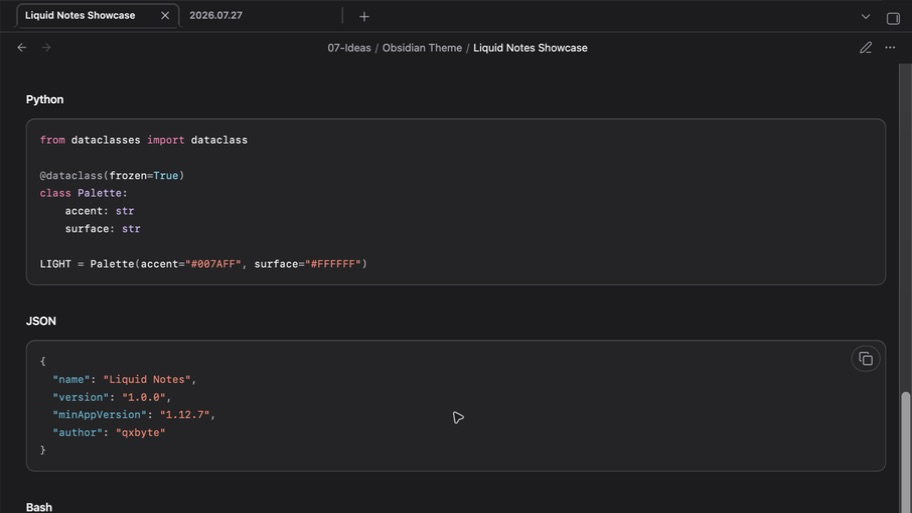
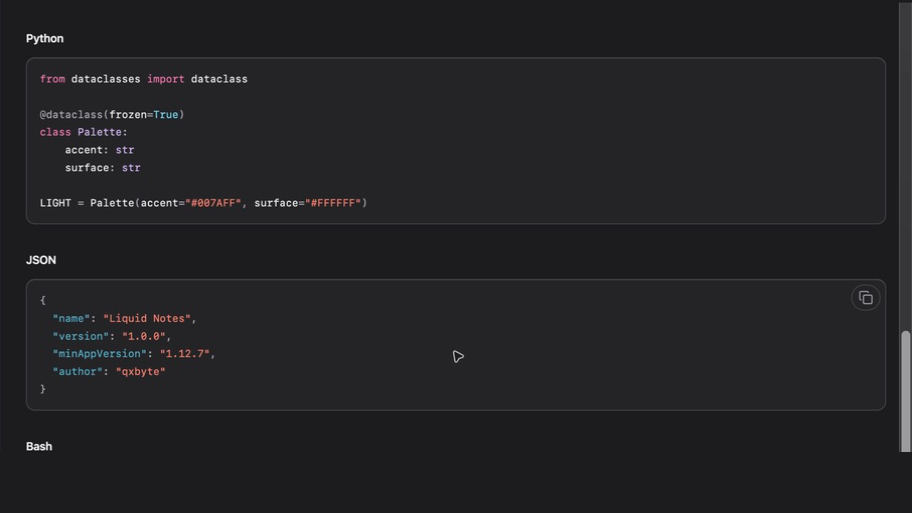
fix: harden theme accessibility and release safety

diff --git a/tests/render-fixture.html b/tests/render-fixture.html
@@ -17,6 +17,7 @@
       </div>
       <section id="light-canvas" class="workspace-leaf-content">
         <div class="markdown-source-view mod-cm6">
+          <div id="live-preview-heading" class="cm-line HyperMD-header HyperMD-header-1">Live Preview heading</div>
           <div class="cm-line cm-hmd-codeblock">
             <span class="cm-keyword">struct</span>
             <span class="cm-type">SettingsView</span>
@@ -37,13 +38,13 @@
           <pre><code><span class="token keyword">struct</span> <span class="token class-name">SettingsView</span> <span class="token function">body</span> <span class="token string">"Notes"</span> <span class="token number">26</span> <span class="token property">accentColor</span> <span class="token comment">// comment</span></code></pre>
         </article>
         <section class="bases-view"><div class="bases-table-container">Bases</div></section>
-        <section class="canvas-wrapper"><div class="canvas-node"><div class="canvas-node-container">Canvas</div></div><div class="canvas-controls">Controls</div></section>
+        <section class="canvas-wrapper"><div class="canvas-node"><div class="canvas-node-container">Canvas</div></div><div class="canvas-controls">Controls</div><div class="canvas-card-menu">Card menu</div></section>
         <section class="graph-view"><div class="graph-controls">Graph</div></section>
         <section class="pdf-container"><div class="pdf-toolbar">PDF</div></section>
         <section class="vertical-tab-header"><div class="vertical-tab-nav-item is-active">Appearance</div></section>
         <section class="setting-item">
           <div class="setting-item-info"><div class="setting-item-name">Theme</div></div>
-          <div class="setting-item-control"><input type="text" value="Liquid Notes"><button id="mobile-action">Apply</button></div>
+          <div class="setting-item-control"><input type="text" value="Liquid Notes"><button id="mobile-action">Apply</button><button id="light-cta" class="mod-cta">Install</button></div>
         </section>
       </section>
       <aside id="light-sidebar" class="workspace-split mod-left-split">
@@ -88,7 +89,7 @@
         <section class="graph-view"><div class="graph-controls">Graph</div></section>
         <section class="pdf-container"><div class="pdf-toolbar">PDF</div></section>
         <section class="vertical-tab-header"><div class="vertical-tab-nav-item is-active">Appearance</div></section>
-        <section class="setting-item"><div class="setting-item-control"><input type="text" value="Liquid Notes"><button>Apply</button></div></section>
+        <section class="setting-item"><div class="setting-item-control"><input type="text" value="Liquid Notes"><button>Apply</button><button id="dark-cta" class="mod-cta">Install</button></div></section>
       </section>
       <aside id="dark-sidebar" class="workspace-split mod-left-split">
         <div class="nav-file-title is-active">File</div>
@@ -102,6 +103,8 @@
     <output id="test-results">pending</output>
     <script>
       const failures = [];
+      const focusTarget = document.querySelector("#light-toolbar-button");
+      focusTarget.focus();
 
       const style = (selector) => getComputedStyle(document.querySelector(selector));
       const custom = (selector, property) => style(selector).getPropertyValue(property).trim().toLowerCase();
@@ -134,6 +137,11 @@
         if (!Number.isFinite(actual) || actual < minimum) failures.push(`${selector} ${property}: expected at least ${minimum}px, got ${style(selector)[property]}`);
       };
 
+      const expectMaxPixels = (selector, property, maximum) => {
+        const actual = Number.parseFloat(style(selector)[property]);
+        if (!Number.isFinite(actual) || actual > maximum) failures.push(`${selector} ${property}: expected at most ${maximum}px, got ${style(selector)[property]}`);
+      };
+
       const expectSameColor = (leftSelector, rightSelector) => {
         const left = style(leftSelector).color;
         const right = style(rightSelector).color;
@@ -155,6 +163,28 @@
         if (!actual.includes(expected.toLowerCase())) failures.push(`${selector} ${property}: expected to include ${expected}, got ${actual}`);
       };
 
+      const expectStyle = (selector, property, expected) => {
+        const actual = style(selector)[property].toLowerCase();
+        if (actual !== expected.toLowerCase()) failures.push(`${selector} ${property}: expected ${expected}, got ${actual}`);
+      };
+
+      const relativeLuminance = (cssColor) => {
+        const channels = cssColor.match(/[\d.]+/g)?.slice(0, 3).map(Number);
+        if (!channels || channels.length !== 3) return Number.NaN;
+        const linear = channels.map((channel) => {
+          const value = channel / 255;
+          return value <= 0.04045 ? value / 12.92 : ((value + 0.055) / 1.055) ** 2.4;
+        });
+        return 0.2126 * linear[0] + 0.7152 * linear[1] + 0.0722 * linear[2];
+      };
+
+      const expectContrast = (selector, minimum) => {
+        const foreground = relativeLuminance(style(selector).color);
+        const background = relativeLuminance(style(selector).backgroundColor);
+        const ratio = (Math.max(foreground, background) + 0.05) / (Math.min(foreground, background) + 0.05);
+        if (!Number.isFinite(ratio) || ratio < minimum) failures.push(`${selector} contrast: expected at least ${minimum}:1, got ${ratio.toFixed(2)}:1`);
+      };
+
       expectCustom("#light-root", "--interactive-accent", "#007aff");
       expectCustom("#dark-root", "--interactive-accent", "#0a84ff");
       expectCustomIncludes("#light-root", "--font-interface-theme", "-apple-system");
@@ -172,12 +202,17 @@
       expectMinPixels("#light-root .search-input-container input", "borderRadius", 7);
       expectMinPixels("#light-toolbar-button", "width", 28);
       expectMinPixels("#light-toolbar-button", "height", 28);
+      if (!focusTarget.matches(":focus-visible")) failures.push("#light-toolbar-button: expected :focus-visible after keyboard-style autofocus");
+      expectMinPixels("#light-toolbar-button", "outlineWidth", 2);
       expectNotTransparent("#light-root .status-bar");
       expectNotTransparent("#light-root .menu");
       expectNotTransparent("#light-root .modal");
       expectNotTransparent("#light-root .tooltip");
       expectNotTransparent("#light-root .markdown-reading-view");
       expectNotTransparent("#dark-root .markdown-reading-view");
+      expectMaxPixels("#live-preview-heading", "marginTop", 0);
+      expectMaxPixels("#live-preview-heading", "marginBottom", 0);
+      expectMinPixels("#live-preview-heading", "paddingTop", 1);
       expectFontIncludes("#light-root pre code", "SF Mono");
       expectFontIncludes("#dark-root .cm-hmd-codeblock", "SF Mono");
       expectDistinctColors([
@@ -211,10 +246,14 @@
       expectNotTransparent("#light-root .canvas-controls");
       expectNotTransparent("#light-root .graph-controls");
       expectNotTransparent("#light-root .pdf-toolbar");
+      expectStyle("#light-root .canvas-node-container", "backdropFilter", "none");
+      expectStyleIncludes("#light-root .canvas-controls", "backdropFilter", "blur(");
       expectNotTransparent("#light-root .vertical-tab-header");
       expectNotTransparent("#light-root .setting-item-control input");
       expectNotTransparent("#light-root .setting-item-control button");
       expectMinPixels("#light-root .setting-item-control input", "borderTopWidth", 1);
+      expectContrast("#light-cta", 4.5);
+      expectContrast("#dark-cta", 4.5);
 
       if (window.innerWidth <= 800) {
         expectMinPixels("#light-toolbar-button", "height", 44);
@@ -226,7 +265,26 @@
         expectStyleIncludes("#light-toolbar-button", "transitionDuration", "0s");
       }
 
-      document.querySelector("#test-results").textContent = JSON.stringify({ failures });
+      if (matchMedia("(prefers-reduced-transparency: reduce)").matches) {
+        for (const selector of [
+          "#light-sidebar",
+          "#light-root .canvas-controls",
+          "#light-root .canvas-card-menu",
+          "#light-root .graph-controls",
+          "#light-root .pdf-toolbar",
+        ]) {
+          expectStyle(selector, "backdropFilter", "none");
+          expectNotTransparent(selector);
+        }
+      }
+
+      document.querySelector("#test-results").textContent = JSON.stringify({
+        failures,
+        media: {
+          reducedMotion: matchMedia("(prefers-reduced-motion: reduce)").matches,
+          reducedTransparency: matchMedia("(prefers-reduced-transparency: reduce)").matches,
+        },
+      });
     </script>
   </body>
 </html>

diff --git a/theme.css b/theme.css
@@ -31,6 +31,7 @@ body {
 
   --ln-accent: #007aff;
   --ln-accent-hover: #006ee6;
+  --ln-accent-cta: #0062cc;
   --ln-canvas: #ffffff;
   --ln-canvas-alt: #f7f7f9;
   --ln-surface: rgba(255, 255, 255, 0.78);
@@ -111,6 +112,7 @@ body {
 
   --ln-accent: #0a84ff;
   --ln-accent-hover: #409cff;
+  --ln-accent-cta: #0068d9;
   --ln-canvas: #1c1c1e;
   --ln-canvas-alt: #232326;
   --ln-surface: rgba(44, 44, 46, 0.78);
@@ -595,21 +597,30 @@ input[type="search"]:focus {
   text-wrap: balance;
 }
 
-.markdown-rendered h1,
-.HyperMD-header-1 {
+.markdown-rendered h1 {
   margin-block: 1.5em 0.58em;
 }
 
-.markdown-rendered h2,
-.HyperMD-header-2 {
+.HyperMD-header-1 {
+  padding-block: 1.5em 0.58em;
+}
+
+.markdown-rendered h2 {
   margin-block: 1.45em 0.56em;
+}
+
+.HyperMD-header-2 {
+  padding-top: 1.45em;
   padding-bottom: 0.22em;
   border-bottom: 1px solid var(--ln-separator);
 }
 
-.markdown-rendered :is(h3, h4, h5, h6),
-:is(.HyperMD-header-3, .HyperMD-header-4, .HyperMD-header-5, .HyperMD-header-6) {
+.markdown-rendered :is(h3, h4, h5, h6) {
   margin-block: 1.3em 0.5em;
+}
+
+:is(.HyperMD-header-3, .HyperMD-header-4, .HyperMD-header-5, .HyperMD-header-6) {
+  padding-block: 1.3em 0.5em;
 }
 
 .markdown-rendered p,
@@ -986,7 +997,12 @@ a.tag {
 }
 
 .canvas-node-container,
-.canvas-group-label,
+.canvas-group-label {
+  border: 1px solid var(--ln-border);
+  background-color: var(--background-primary-alt);
+  box-shadow: var(--ln-shadow-control);
+}
+
 .canvas-controls,
 .canvas-card-menu,
 .graph-controls {
@@ -1171,8 +1187,12 @@ button.mod-warning {
 button.mod-cta {
   border-color: transparent;
   color: var(--text-on-accent);
-  background-color: var(--ln-accent);
+  background-color: var(--ln-accent-cta);
   box-shadow: 0 1px 2px color-mix(in srgb, var(--ln-accent) 34%, transparent), inset 0 1px rgba(255, 255, 255, 0.22);
+}
+
+.setting-item-control button.mod-cta:hover {
+  background-color: color-mix(in srgb, var(--ln-accent-cta) 90%, #000000);
 }
 
 button.mod-warning {
@@ -1262,8 +1282,10 @@ kbd,
   .modal,
   .tooltip,
   .canvas-controls,
+  .canvas-card-menu,
   .graph-controls,
-  .pdf-toolbar {
+  .pdf-toolbar,
+  .pdf-sidebar-container {
     -webkit-backdrop-filter: saturate(1.2) blur(14px);
     backdrop-filter: saturate(1.2) blur(14px);
   }
@@ -1285,7 +1307,12 @@ kbd,
   .status-bar,
   .menu,
   .modal,
-  .tooltip {
+  .tooltip,
+  .canvas-controls,
+  .canvas-card-menu,
+  .graph-controls,
+  .pdf-toolbar,
+  .pdf-sidebar-container {
     background-color: var(--background-secondary-alt);
   }
 }
@@ -1298,7 +1325,12 @@ kbd,
   .status-bar,
   .menu,
   .modal,
-  .tooltip {
+  .tooltip,
+  .canvas-controls,
+  .canvas-card-menu,
+  .graph-controls,
+  .pdf-toolbar,
+  .pdf-sidebar-container {
     background-color: var(--background-secondary-alt);
     -webkit-backdrop-filter: none;
     backdrop-filter: none;
